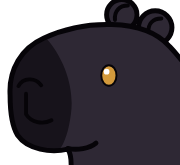
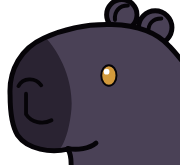
fix(mascota): piel de Día de Muertos de Capi más visible y bigote sobre el hocico
- La piel negra se aclara un poco para que el capibara se distinga sobre
  el tema oscuro.
- El ancla de bigote y barba se recorre hacia atrás para que no
  sobresalga del hocico.

Claude-Session: https://claude.ai/code/session_01PvyFedfVVzz3SMptyeSPZm

diff --git a/scripts/generar_capibara.js b/scripts/generar_capibara.js
@@ -33,7 +33,8 @@ const PALETTES = {
   // Halloween: pelaje morado y ojos verdes brillantes (como el gato oscuro)
   dark: { line: '#140f1c', fur: '#5a4a7e', dark: '#2f2645', eye: '#9ed12a', tongue: '#c75b84' },
   // Día de Muertos: capibara negro con ojos ámbar
-  black: { line: '#060408', fur: '#2e2834', dark: '#17131b', eye: '#d39a3c', tongue: '#b9576f' },
+  // (un poco aclarado para que se distinga sobre el tema oscuro)
+  black: { line: '#060408', fur: '#4a4156', dark: '#2a2332', eye: '#d39a3c', tongue: '#b9576f' },
 };
 
 // referencia → sprite: se refleja (mira a la derecha) y se escala
@@ -278,7 +279,7 @@ function anchors(pose) {
     eyes: [[...T(EYE), 11]],
     nose: T([828, 270]),
     // bigote, barba y boca cosida: un poco detrás de la boca (de perfil el hocico es angosto)
-    mouth: T([872, 336]),
+    mouth: T([900, 340]),
     cheeks: [T([978, 350])],
     chin: T([870, 430]),
     neck: T([990, 452]),

diff --git a/src/components/mascot/characters.ts b/src/components/mascot/characters.ts
@@ -120,7 +120,7 @@ const CAPI_SITTING: Anchors = {
   rot: 6,
   eyes: [[168, 83, 11]],
   nose: [247, 92],
-  mouth: [230, 117],
+  mouth: [220, 118],
   cheeks: [[190, 122]],
   chin: [231, 153],
   neck: [185, 161],
@@ -150,7 +150,7 @@ const CAPIBARA: Character = {
       rot: 6,
       eyes: [[164, 83, 11]],
       nose: [243, 92],
-      mouth: [226, 117],
+      mouth: [216, 118],
       cheeks: [[186, 122]],
       chin: [227, 153],
       neck: [181, 161],
